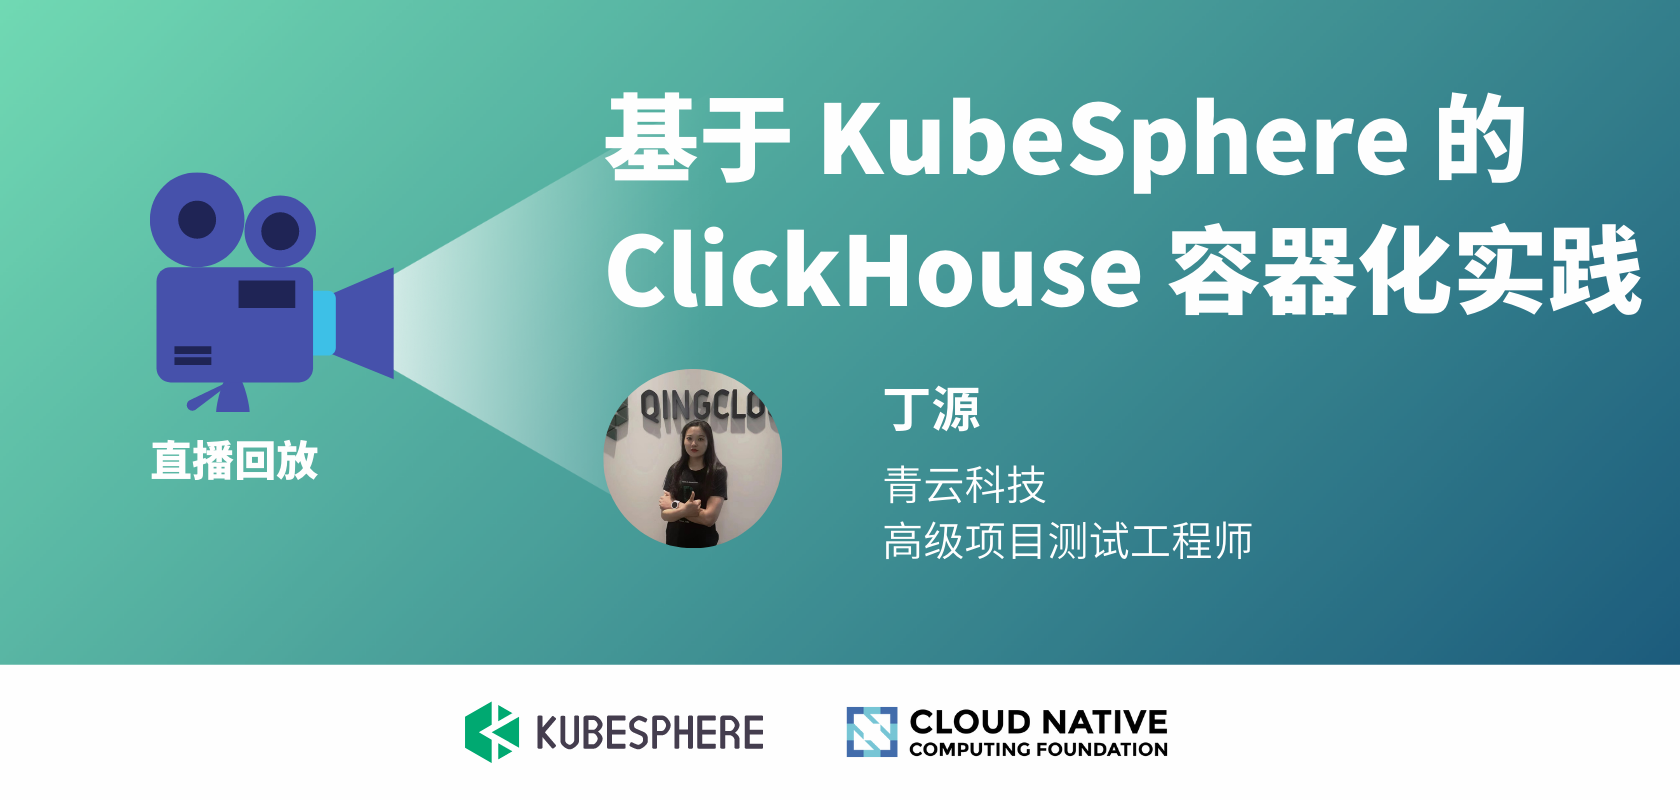
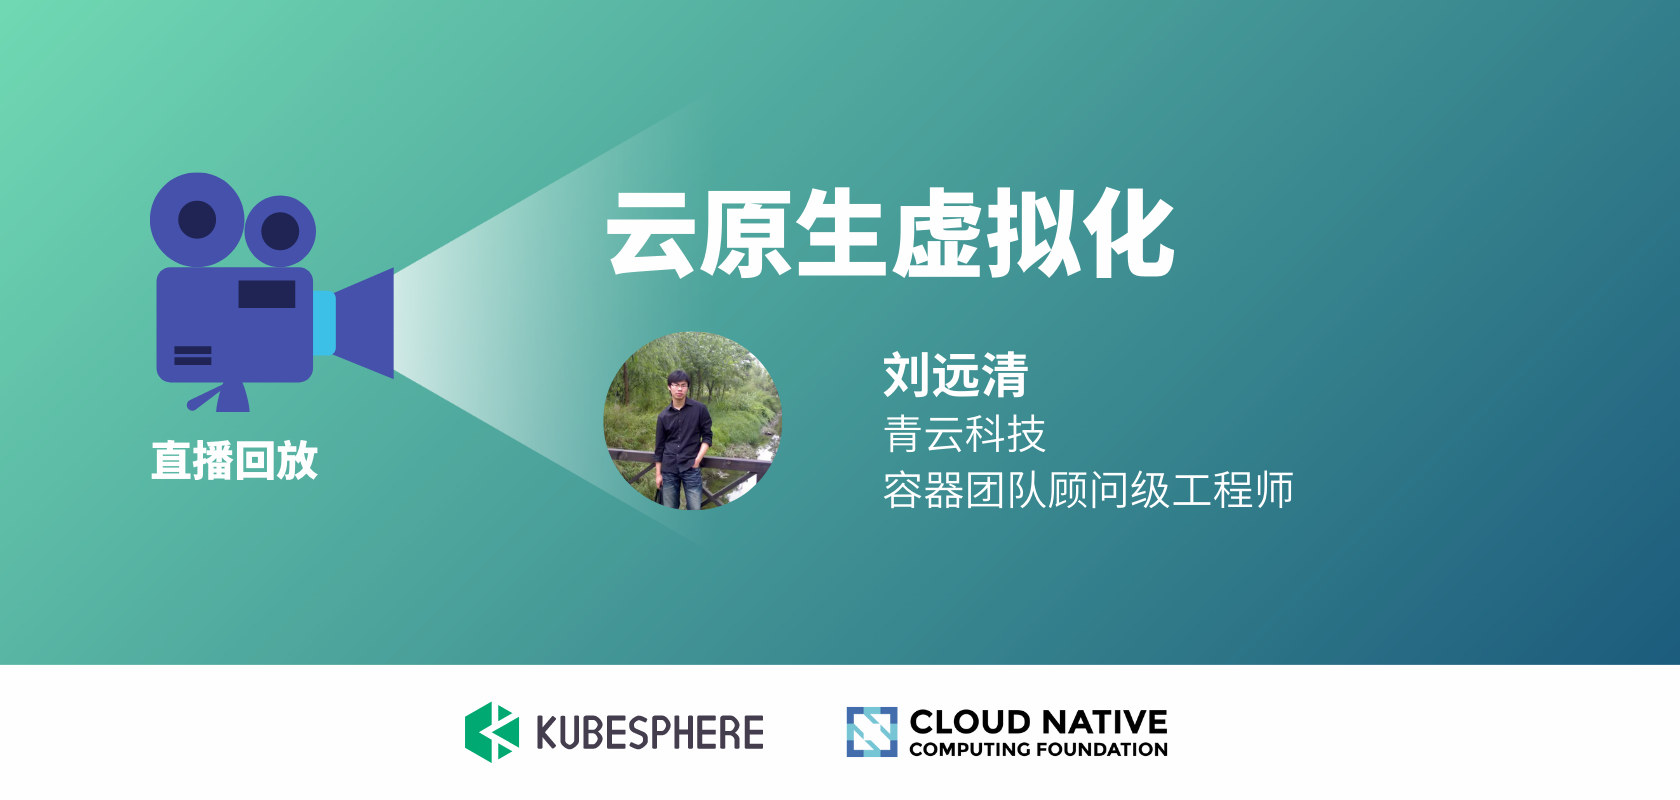
update the page of live

Changed region(s): [[0.3405, 0.0938, 0.9905, 0.6875], [0.5262, 0.4375, 0.7738, 0.7188]]

diff --git a/content/zh/live/ksv0526-live.md b/content/zh/live/ksv0526-live.md
@@ -6,7 +6,7 @@ css: scss/live-detail.scss
 
 section1:
   snapshot: 
-  videoUrl: 
+  videoUrl: //player.bilibili.com/player.html?aid=596971133&bvid=BV1gB4y1X73s&cid=730553912&page=1&high_quality=1
   type: iframe
   time: 2022-05-26 20:00-21:00
   timeIcon: /images/live/clock.svg
@@ -33,3 +33,48 @@ section1:
 
 B 站  http://live.bilibili.com/22580654
 
+# PPT 下载
+
+可扫描官网底部二维码，关注 「KubeSphere云原生」公众号，后台回复 `20220526` 即可下载 PPT。
+
+## Q & A
+
+### Q1：很多虚拟机都有固定 IP 的功能，这方面我们是怎么实现的，保证虚拟机重启后 IP 是不变的？
+
+A：对于 macvtap 的实现，KSV 有自己的 IPAM 功能模块来管理 IP 地址，只要创建 VM 的时候就会固定给他分配 IP 地址，VM和容器网络是分开的，所以不存在重启后 IP 地址变化的问题，对于 Kube-OVN 也是支持重启后 IP 地址不变的。
+
+### Q2：在问题 1 的基础上，虚拟机都会有很多单独的 IP 的管理分配，有没有具体的 multus CNI 方案去实现？
+
+A：虚拟机的 IP 地址是通过 Kubevirt 的 clount-init 配置传递到虚拟机中的，所以与 CNI 没有关系。
+
+### Q3：类似 OpenStack FloatingIP 的 feature 有实现吗？
+
+A: 暂时没有实现这个功能，在云原生下应该更希望用 LB 或者 service 来解决。
+
+### Q4：Kubevirt 是不是支持集群的 worker node 是裸金属服务器的情况啊？
+
+A：kubevirt 的母体是 K8s，K8s 是支持安装在裸金属服务器上的，考虑虚拟机的嵌套虚拟化的需要，最好安装到裸金属服务器上。
+
+### Q5：KSV 里使用了什么网络插件 overlay 网络？
+
+A：KSV 用 macvtap 实现的是 underlay 网络，正在集成 Kube-OVN。
+
+### Q6：VM 实例和 Pod 是什么关系，是 Pod 里启动的 VM 吗？
+
+A：Pod 是带有 libvirt 环境的，所以虚拟机是在 Pod 里面起来的。
+
+### Q7：OpenStack 相比于 Kubevirt，Kubevirt 更适合什么场景？
+
+A：Kubevirt 会让 K8s 统一纳管容器和 VM，让虚拟机与容器之间更好的交互，虚拟机可以重用云原生组件，还有就是 K8s 要比 OpenStack 更轻量级。
+
+### Q8：Kube-OVN 性能有点差，有使用网络加速插件吗？
+
+A：容器下的大多网络插件都是在一个子网平面的，但是 Kube-OVN 提供了虚拟交换机，虚拟路由器，网关等功能，更加灵活。现在 Kube-OVN 是通过 vether+bridge 的方式接入虚拟机，经过的路径太长，希望 Kube-OVN 和 Kubevirt 社区合作，通过 OVS 的 internal port 直接挂到 VM 中，这样路径很短很多，也可以通过 DPDK+OVS 来提高这个性能，如果更高的网络性能需求，建议使用网卡的硬件虚拟化技术 SRIOV，Kubevirt 是支持的。
+
+### Q9：虚拟机支持组播吗？
+
+A：对于 macvtap 来说，只要物理交换机支持，应该没问题的。
+
+### Q10： KSV 产品可以试用吗？
+
+A：前端支持 3 节点 9VM 的免费体验，但是后端用 kubectl 命令是没有任何限制的，可以 [KSV 官网](https://kubesphere.cloud/ksv/)了解和下载体验。

diff --git a/content/zh/live/jinaai0602-live.md b/content/zh/live/jinaai0602-live.md
@@ -1,0 +1,35 @@
+---
+title: 基于 KubeSphere 和 Thanos 构建可持久化存储的多集群监控系统
+description: 本次分享打算介绍如何在 KubeSphere 集成 Thanos 这个 CNCF 项目，其可以与 Prometheus 组成持久化的高可用集群监控，并且减低存储的费用与支持多租户。
+keywords: KubeSphere, Kubernetes, Thanos, Prometheus, 高可用集群监控
+css: scss/live-detail.scss
+
+section1:
+  snapshot: 
+  videoUrl: 
+  type: iframe
+  time: 2022-06-02 20:00-21:00
+  timeIcon: /images/live/clock.svg
+  base: 线上
+  baseIcon: /images/live/base.svg
+---
+## 分享内容简介
+
+Prometheus 目前是监控的主流软件，其包括含监控服务，告警服务，收集器等一系列组件，但在云原生时代，K8s 的监控带来了更多难题。本次分享打算介绍如何在 KubeSphere 集成 Thanos 这个 CNCF 项目，其可以与 Prometheus 组成持久化的高可用集群监控，并且减低存储的费用与支持多租户。
+
+## 讲师简介
+
+陶然，Jina AI 云架构研发工程师，开源社区爱好者。
+
+## 分享大纲
+
+![](https://pek3b.qingstor.com/kubesphere-community/images/jinaai0602-live.png)
+
+## 直播时间
+
+2022 年 06 月 02 日 20:00-21:00
+
+## 直播地址
+
+B 站  http://live.bilibili.com/22580654
+

diff --git a/content/zh/live/_index.md b/content/zh/live/_index.md
@@ -10,22 +10,29 @@ section1:
 
 section2:
   image: /images/live/cloudnative-live-banner.png
-  url: ./clickhouse0512-live/
+  url: ./ksv0526-live/
 
   notice:
-    title: 云原生虚拟化
+    title: 基于 KubeSphere 和 Thanos 构建可持久化存储的多集群监控系统
     tag: 预告
-    time: 2022 年 05 月 26 日晚 8 点
+    time: 2022 年 06 月 02 日晚 8 点
     base: 线上
-    url: ./ksv0526-live/
+    url: ./jinaai0602-live/
 
   over:
-    title: 使用 Notification Manager 构建云原生通知系统
-    url: ./notification-manager-0428-live/
+    title: 基于 KubeSphere 的 ClickHouse 容器化实践
+    url: ./clickhouse0512-live/
     tag: 结束
 
 section3:
   videos:
+    - title: 云原生虚拟化
+      link: ./ksv0526-live/
+      snapshot: https://pek3b.qingstor.com/kubesphere-community/images/ksv0526-live-cover.png
+      type: iframe
+      createTime: 2022.05.26
+      group: 直播回放
+
     - title: 从 Fluentbit-operator 到 Fluent-operator
       link: ./chengdu0514-fluent-operator/
       snapshot: https://pek3b.qingstor.com/kubesphere-community/images/chengdu0514-fluent-operator-cover.png
